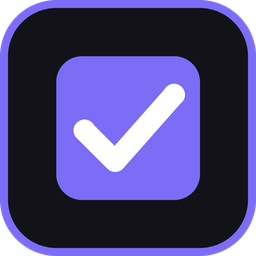
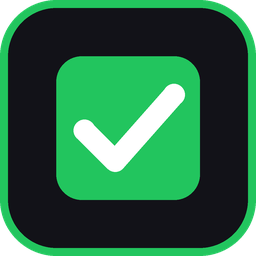
style: switch accent from purple to green

diff --git a/src/Theme.cs b/src/Theme.cs
@@ -36,25 +36,25 @@ namespace TaskPad
             {
                 Set(Bg, "#0E0E11"); Set(Chrome, "#09090B"); Set(ChromeBorder, "#1C1C22");
                 Set(Fg, "#D4D4D8"); Set(FgDim, "#71717A"); Set(FgFaint, "#3F3F46");
-                Set(LineNo, "#3F3F4A"); Set(CurrentLine, "#16161C"); Set(Selection, "#553F3FA8");
-                Set(Accent, "#7C6CF6"); Set(Heading, "#EDE9FE"); Set(Section, "#E4E4E7"); Set(Done, "#5B5B66");
-                Set(Popup, "#17171D"); Set(Hover, "#26262F"); Set(Input, "#0E0E11"); Set(AccentSoft, "#407C6CF6");
+                Set(LineNo, "#3F3F4A"); Set(CurrentLine, "#16161C"); Set(Selection, "#4522C55E");
+                Set(Accent, "#22C55E"); Set(Heading, "#F4F4F5"); Set(Section, "#E4E4E7"); Set(Done, "#5B5B66");
+                Set(Popup, "#17171D"); Set(Hover, "#26262F"); Set(Input, "#0E0E11"); Set(AccentSoft, "#3322C55E");
                 Set(Bang, "#FF5C5C"); Set(Slash, "#4ADE80"); Set(Star, "#34D399"); Set(Question, "#A78BFA");
                 Set(Todo, "#FBBF24"); Set(Arrow, "#C084FC"); Set(Back, "#22D3EE"); Set(Dash, "#94A3B8");
                 Set(Mention, "#FBBF24"); Set(HashTag, "#22D3EE"); Set(Date, "#60A5FA"); Set(Code, "#FDBA74"); Set(Link, "#60A5FA");
-                Set(BoxOpen, "#6B6B78"); Set(BoxDone, "#7C6CF6"); Set(BoxDoing, "#FBBF24"); Set(BoxCancel, "#EF4444");
+                Set(BoxOpen, "#6B6B78"); Set(BoxDone, "#22C55E"); Set(BoxDoing, "#FBBF24"); Set(BoxCancel, "#EF4444");
             }
             else
             {
                 Set(Bg, "#FFFFFF"); Set(Chrome, "#F3F3F6"); Set(ChromeBorder, "#E2E2E8");
                 Set(Fg, "#1F2328"); Set(FgDim, "#6E6E7A"); Set(FgFaint, "#B4B4BF");
-                Set(LineNo, "#A3A3AE"); Set(CurrentLine, "#F4F4F8"); Set(Selection, "#406D5DF0");
-                Set(Accent, "#6D5DF0"); Set(Heading, "#1B1534"); Set(Section, "#26262E"); Set(Done, "#9B9BA6");
-                Set(Popup, "#FFFFFF"); Set(Hover, "#EDEDF3"); Set(Input, "#FAFAFC"); Set(AccentSoft, "#306D5DF0");
+                Set(LineNo, "#A3A3AE"); Set(CurrentLine, "#F4F4F8"); Set(Selection, "#3516A34A");
+                Set(Accent, "#16A34A"); Set(Heading, "#14241A"); Set(Section, "#26262E"); Set(Done, "#9B9BA6");
+                Set(Popup, "#FFFFFF"); Set(Hover, "#EDEDF3"); Set(Input, "#FAFAFC"); Set(AccentSoft, "#2816A34A");
                 Set(Bang, "#D92D33"); Set(Slash, "#16A34A"); Set(Star, "#059669"); Set(Question, "#7C3AED");
                 Set(Todo, "#C2860A"); Set(Arrow, "#9333EA"); Set(Back, "#0891B2"); Set(Dash, "#64748B");
                 Set(Mention, "#B7791F"); Set(HashTag, "#0E7490"); Set(Date, "#2563EB"); Set(Code, "#C2410C"); Set(Link, "#2563EB");
-                Set(BoxOpen, "#9A9AA6"); Set(BoxDone, "#6D5DF0"); Set(BoxDoing, "#D99A00"); Set(BoxCancel, "#DC2626");
+                Set(BoxOpen, "#9A9AA6"); Set(BoxDone, "#16A34A"); Set(BoxDoing, "#D99A00"); Set(BoxCancel, "#DC2626");
             }
         }
 

diff --git a/src/PdfExport.cs b/src/PdfExport.cs
@@ -195,12 +195,12 @@ main { max-width: 760px; margin: 0 auto; }
 h1,h2,h3,h4,h5,h6 { margin: .9em 0 .35em; line-height: 1.25; color: #111; }
 h1 { font-size: 2em; } h2 { font-size: 1.6em; } h3 { font-size: 1.3em; } h4 { font-size: 1.12em; } h5 { font-size: 1em; } h6 { font-size: .9em; color: #555; }
 .gap { height: .6em; }
-hr { border: 0; border-top: 1px solid #ddd; margin: .8em 0; } hr.accent { border-top: 2px solid #7c6cf6; }
+hr { border: 0; border-top: 1px solid #ddd; margin: .8em 0; } hr.accent { border-top: 2px solid #16a34a; }
 .line { display: flex; gap: .5em; align-items: baseline; margin: .12em 0; break-inside: avoid; }
 .section .txt { font-weight: 700; }
 .box { flex: none; width: .95em; height: .95em; border: 1.5px solid #8a8a96; border-radius: 3px; display: inline-flex; align-items: center; justify-content: center; font-size: .8em; color: #fff; transform: translateY(.12em); }
 .sub .box { width: .8em; height: .8em; }
-.done .box { background: #7c6cf6; border-color: #7c6cf6; } .done .txt, .cancel .txt { color: #888; text-decoration: line-through; }
+.done .box { background: #16a34a; border-color: #16a34a; } .done .txt, .cancel .txt { color: #888; text-decoration: line-through; }
 .doing .box { border-color: #d99a00; color: #d99a00; } .cancel .box { border-color: #e04444; color: #e04444; }
 .badge { flex: none; width: 1.1em; height: 1.1em; border-radius: 50%; color: #fff; font-weight: 700; font-size: .8em; display: inline-flex; align-items: center; justify-content: center; }
 .tag-bang .badge { background: #e5484d; } .tag-bang .txt { color: #c62f35; font-weight: 700; }
@@ -210,7 +210,7 @@ hr { border: 0; border-top: 1px solid #ddd; margin: .8em 0; } hr.accent { border
 .glyph { flex: none; width: 1em; text-align: center; }
 .tag-star .glyph, .tag-star .txt { color: #12936a; } .tag-arrow .glyph, .tag-arrow .txt { color: #8b3fd1; font-weight: 600; }
 .tag-back .glyph, .tag-back .txt { color: #0b8aa3; } .tag-slash .glyph, .tag-slash .txt { color: #1f9d55; font-weight: 600; } .tag-dash .glyph { color: #888; }
-.num { color: #7c6cf6; font-weight: 700; }
+.num { color: #16a34a; font-weight: 700; }
 code { font-family: 'Cascadia Mono', Consolas, monospace; background: #f3f2f8; padding: 0 .3em; border-radius: 3px; font-size: .9em; color: #b45309; }
 .mention { color: #b7791f; font-weight: 600; } .hashtag { color: #0e7490; } .date { color: #2563eb; }
 a { color: #2563eb; }

diff --git a/src/TaskWindow.cs b/src/TaskWindow.cs
@@ -23,7 +23,7 @@ namespace TaskPad
         readonly Canvas _overlay = new Canvas { IsHitTestVisible = false };
         readonly Border _dropRect = new Border
         {
-            Background = new SolidColorBrush(Color.FromArgb(0x30, 0x7C, 0x6C, 0xF6)),
+            Background = new SolidColorBrush(Color.FromArgb(0x30, 0x22, 0xC5, 0x5E)),
             BorderBrush = Theme.Accent,
             BorderThickness = new Thickness(1.5),
             CornerRadius = new CornerRadius(6),
@@ -892,7 +892,7 @@ Inline  @person  #tag  2026-10-04 14:30  `code`  https://example.com (Ctrl+click
 14. Ctrl+M          comment on selected words (hover to read, click bubble to edit)
 15. Ctrl+V          paste an image (saved to images/ next to the file)
 16. Ctrl+P          export to PDF
-17. Ctrl+click      copy a colour code like #7C6CF6 or a link
+17. Ctrl+click      copy a colour code like #22C55E or a link
 
 # Heading 1
 ## Heading 2

diff --git a/assets/make_icon.py b/assets/make_icon.py
@@ -6,10 +6,10 @@ def frame(n):
     im = Image.new("RGBA", (S, S), (0, 0, 0, 0))
     d = ImageDraw.Draw(im)
     r = int(S * 0.22)
-    d.rounded_rectangle([0, 0, S - 1, S - 1], r, fill=(18, 18, 24, 255), outline=(124, 108, 246, 255), width=max(s, S // 32))
+    d.rounded_rectangle([0, 0, S - 1, S - 1], r, fill=(18, 18, 24, 255), outline=(34, 197, 94, 255), width=max(s, S // 32))
     # checkbox
     bx0, by0, bx1, by1 = S * 0.22, S * 0.22, S * 0.78, S * 0.78
-    d.rounded_rectangle([bx0, by0, bx1, by1], int(S * 0.1), fill=(124, 108, 246, 255))
+    d.rounded_rectangle([bx0, by0, bx1, by1], int(S * 0.1), fill=(34, 197, 94, 255))
     w = max(s * 2, int(S * 0.085))
     pts = [(S * 0.33, S * 0.51), (S * 0.45, S * 0.63), (S * 0.68, S * 0.37)]
     d.line(pts, fill=(255, 255, 255, 255), width=w, joint="curve")

diff --git a/src/Images.cs b/src/Images.cs
@@ -435,7 +435,7 @@ namespace TaskPad
         {
             var t = new ControlTemplate(typeof(System.Windows.Controls.Primitives.Thumb));
             var f = new FrameworkElementFactory(typeof(Border));
-            f.SetValue(Border.BackgroundProperty, new SolidColorBrush(Color.FromArgb(0xD0, 0x7C, 0x6C, 0xF6)));
+            f.SetValue(Border.BackgroundProperty, new SolidColorBrush(Color.FromArgb(0xD0, 0x22, 0xC5, 0x5E)));
             f.SetValue(Border.CornerRadiusProperty, new CornerRadius(6, 0, 5, 0));
             t.VisualTree = f;
             return t;

diff --git a/README.md b/README.md
@@ -104,7 +104,7 @@ Dark by default. `⋯` → **Light theme** switches every window instantly (or `
 
 ## Colours and links
 
-Colour codes like `#7C6CF6`, `#fff` or `#22D3EE80` get a live swatch. <kbd>Ctrl</kbd>+click a colour code or a link
+Colour codes like `#22C55E`, `#fff` or `#22D3EE80` get a live swatch. <kbd>Ctrl</kbd>+click a colour code or a link
 to copy it — a toast confirms, and for links offers **Open ↗**.
 
 ## Markdown and plain text
